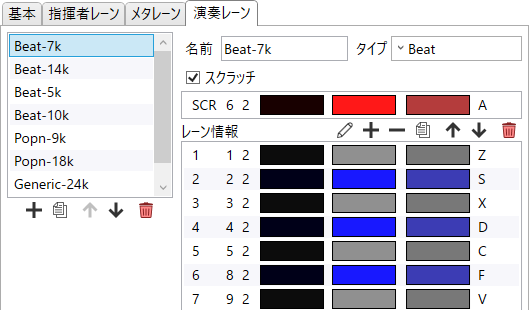
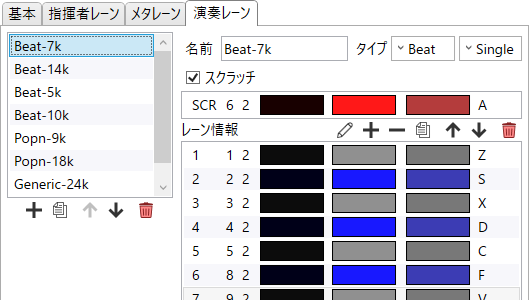
v0.7.17

Changed region(s): [[0.0, 0.0, 1.0, 1.0], [0.2722, 0.51, 0.3327, 0.54]]

diff --git a/docs/history.html b/docs/history.html
@@ -11,6 +11,38 @@
             <ul>
                 <li>
                     <details open>
+                        <summary class="a-like">Version 0.7.17 (2025/07/22)</summary>
+                        <ul>
+                            <li>
+                                仕様変更
+                                <ul>
+                                    <li>
+                                        <a href="bms.html">BMSモード</a>において、<a href="bms_header.html">ヘッダー</a>タブでの<span class="script">#PLAYER</span>の変更機能を廃止し、代わりに<a href="bms_theme.html#key">テーマの演奏レーンスタイル</a>で切り替えるようにしました。
+                                        <ul>
+                                            <li>
+                                                この機能を利用するには、演奏レーンのスタイルに「タイプ」を設定する必要があります。
+                                            </li>
+                                            <li>
+                                                デフォルトのテーマを使っている場合は「新規」または「開く-&gt;<span class="script">default.json</span>」でテーマ設定をリロードすることで、デフォルトのタイプ指定を適用できます。
+                                            </li>
+                                        </ul>
+                                    </li>
+                                </ul>
+                            </li>
+                            <li>
+                                不具合修正
+                                <ul>
+                                    <li>
+                                        <a href="bms.html">BMSモード</a>において、分解能(ノート配置や移動の単位)によるグリッドスナップが、その小節の頭ではなく次の小節の頭を基準としていた不具合を修正しました。
+                                    </li>
+                                </ul>
+                            </li>
+                        </ul>
+                        <br>
+                    </details>
+                </li>
+                <li>
+                    <details open>
                         <summary class="a-like">Version 0.7.16 (2025/07/19)</summary>
                         <ul>
                             <li>
@@ -29,7 +61,7 @@
                     </details>
                 </li>
                 <li>
-                    <details open>
+                    <details>
                         <summary class="a-like">Version 0.7.15 (2025/07/18)</summary>
                         <ul>
                             <li>

diff --git a/docs/bms/theme_key_type.html b/docs/bms/theme_key_type.html
@@ -4,10 +4,40 @@
         このスタイルが表す譜面のタイプです。
     </li>
     <li>
-        エディタの「演奏レーン」でタイプが「Popn」のスタイルを選択している場合、<br>
-        「名前を付けて保存」のデフォルト拡張子が<span class="script">.pms</span>になります。
+        左側
+        <ul>
+            <li>
+                ファイルの<b>拡張子</b>に影響する譜面タイプ。
+            </li>
+            <li>
+                タイプが「Popn」のスタイルを選択している場合、<br>
+                「名前を付けて保存」のデフォルト拡張子が<span class="script">.pms</span>になります。
+                <ul>
+                    <li>
+                        「上書き保存」の場合は拡張子は変更されません。
+                    </li>
+                </ul>
+            </li>
+            <li>
+                <span class="script">.pms</span>ファイルを開いた場合、<br>
+                タイプが「Popn」となっているスタイルに自動的に切り替わります。
+            </li>
+        </ul>
     </li>
     <li>
-        「上書き保存」の場合は拡張子は変更されません。
+        右側
+        <ul>
+            <li>
+                <span class="script">#PLAYER</span>ヘッダーに影響するプレイヤー数。
+            </li>
+            <li>
+                タイプが「Single」または「Double」のスタイルを選択している場合、<br>
+                BMSの<span class="script">#PLAYER</span>ヘッダーがその値になります。
+            </li>
+            <li>
+                ファイルを開く際には<b>実際の使用レーン数のみを参照</b>し、<br>
+                <span class="script">#PLAYER</span>によってスタイルが切り替わることはありません。
+            </li>
+        </ul>
     </li>
 </ul>

diff --git a/docs/bms_theme.html b/docs/bms_theme.html
@@ -39,7 +39,7 @@
                     ">
                 </div>
             </div>
-            <div class="stack">
+            <div class="stack" id="conductor">
                 <h2>指揮者レーン</h2>
                 <ul>
                     <li>
@@ -72,7 +72,7 @@
                     ">
                 </div>
             </div>
-            <div class="stack">
+            <div class="stack" id="meta">
                 <h2>メタレーン</h2>
                 <ul>
                     <li>
@@ -110,7 +110,7 @@
                     ">
                 </div>
             </div>
-            <div class="stack">
+            <div class="stack" id="key">
                 <h2>演奏レーン</h2>
                 <ul>
                     <li>
@@ -144,11 +144,11 @@
                     441,119, 24, 22, common/list_moveUp.html;
                     467,119, 24, 22, common/list_moveDown.html;
                     497,119, 24, 22, common/list_delete.html;
-                    181,141,341,169, bms/theme_key_lanes.html, center;
+                    181,141,341,159, bms/theme_key_lanes.html, center;
                     ">
                 </div>
             </div>
-            <div class="stack">
+            <div class="stack" id="laneEdit">
                 <h2>レーン情報編集ウィンドウ</h2>
                 要素をクリックすると説明が表示されます。
                 <div style="display: grid;

diff --git a/docs/index.html b/docs/index.html
@@ -11,7 +11,7 @@
             <div class="stack">
                 <a href="https://github.com/Kuroki-Narumi/BmsMaker3-Manual/releases" target="_blank">
                     <img src="img/logo.png" style="max-width: 100%;"/><br>
-                    Version 0.7.16<br>
+                    Version 0.7.17<br>
                 </a>
                 オールインワン型BMS制作補助ツール<br>
             </div>
